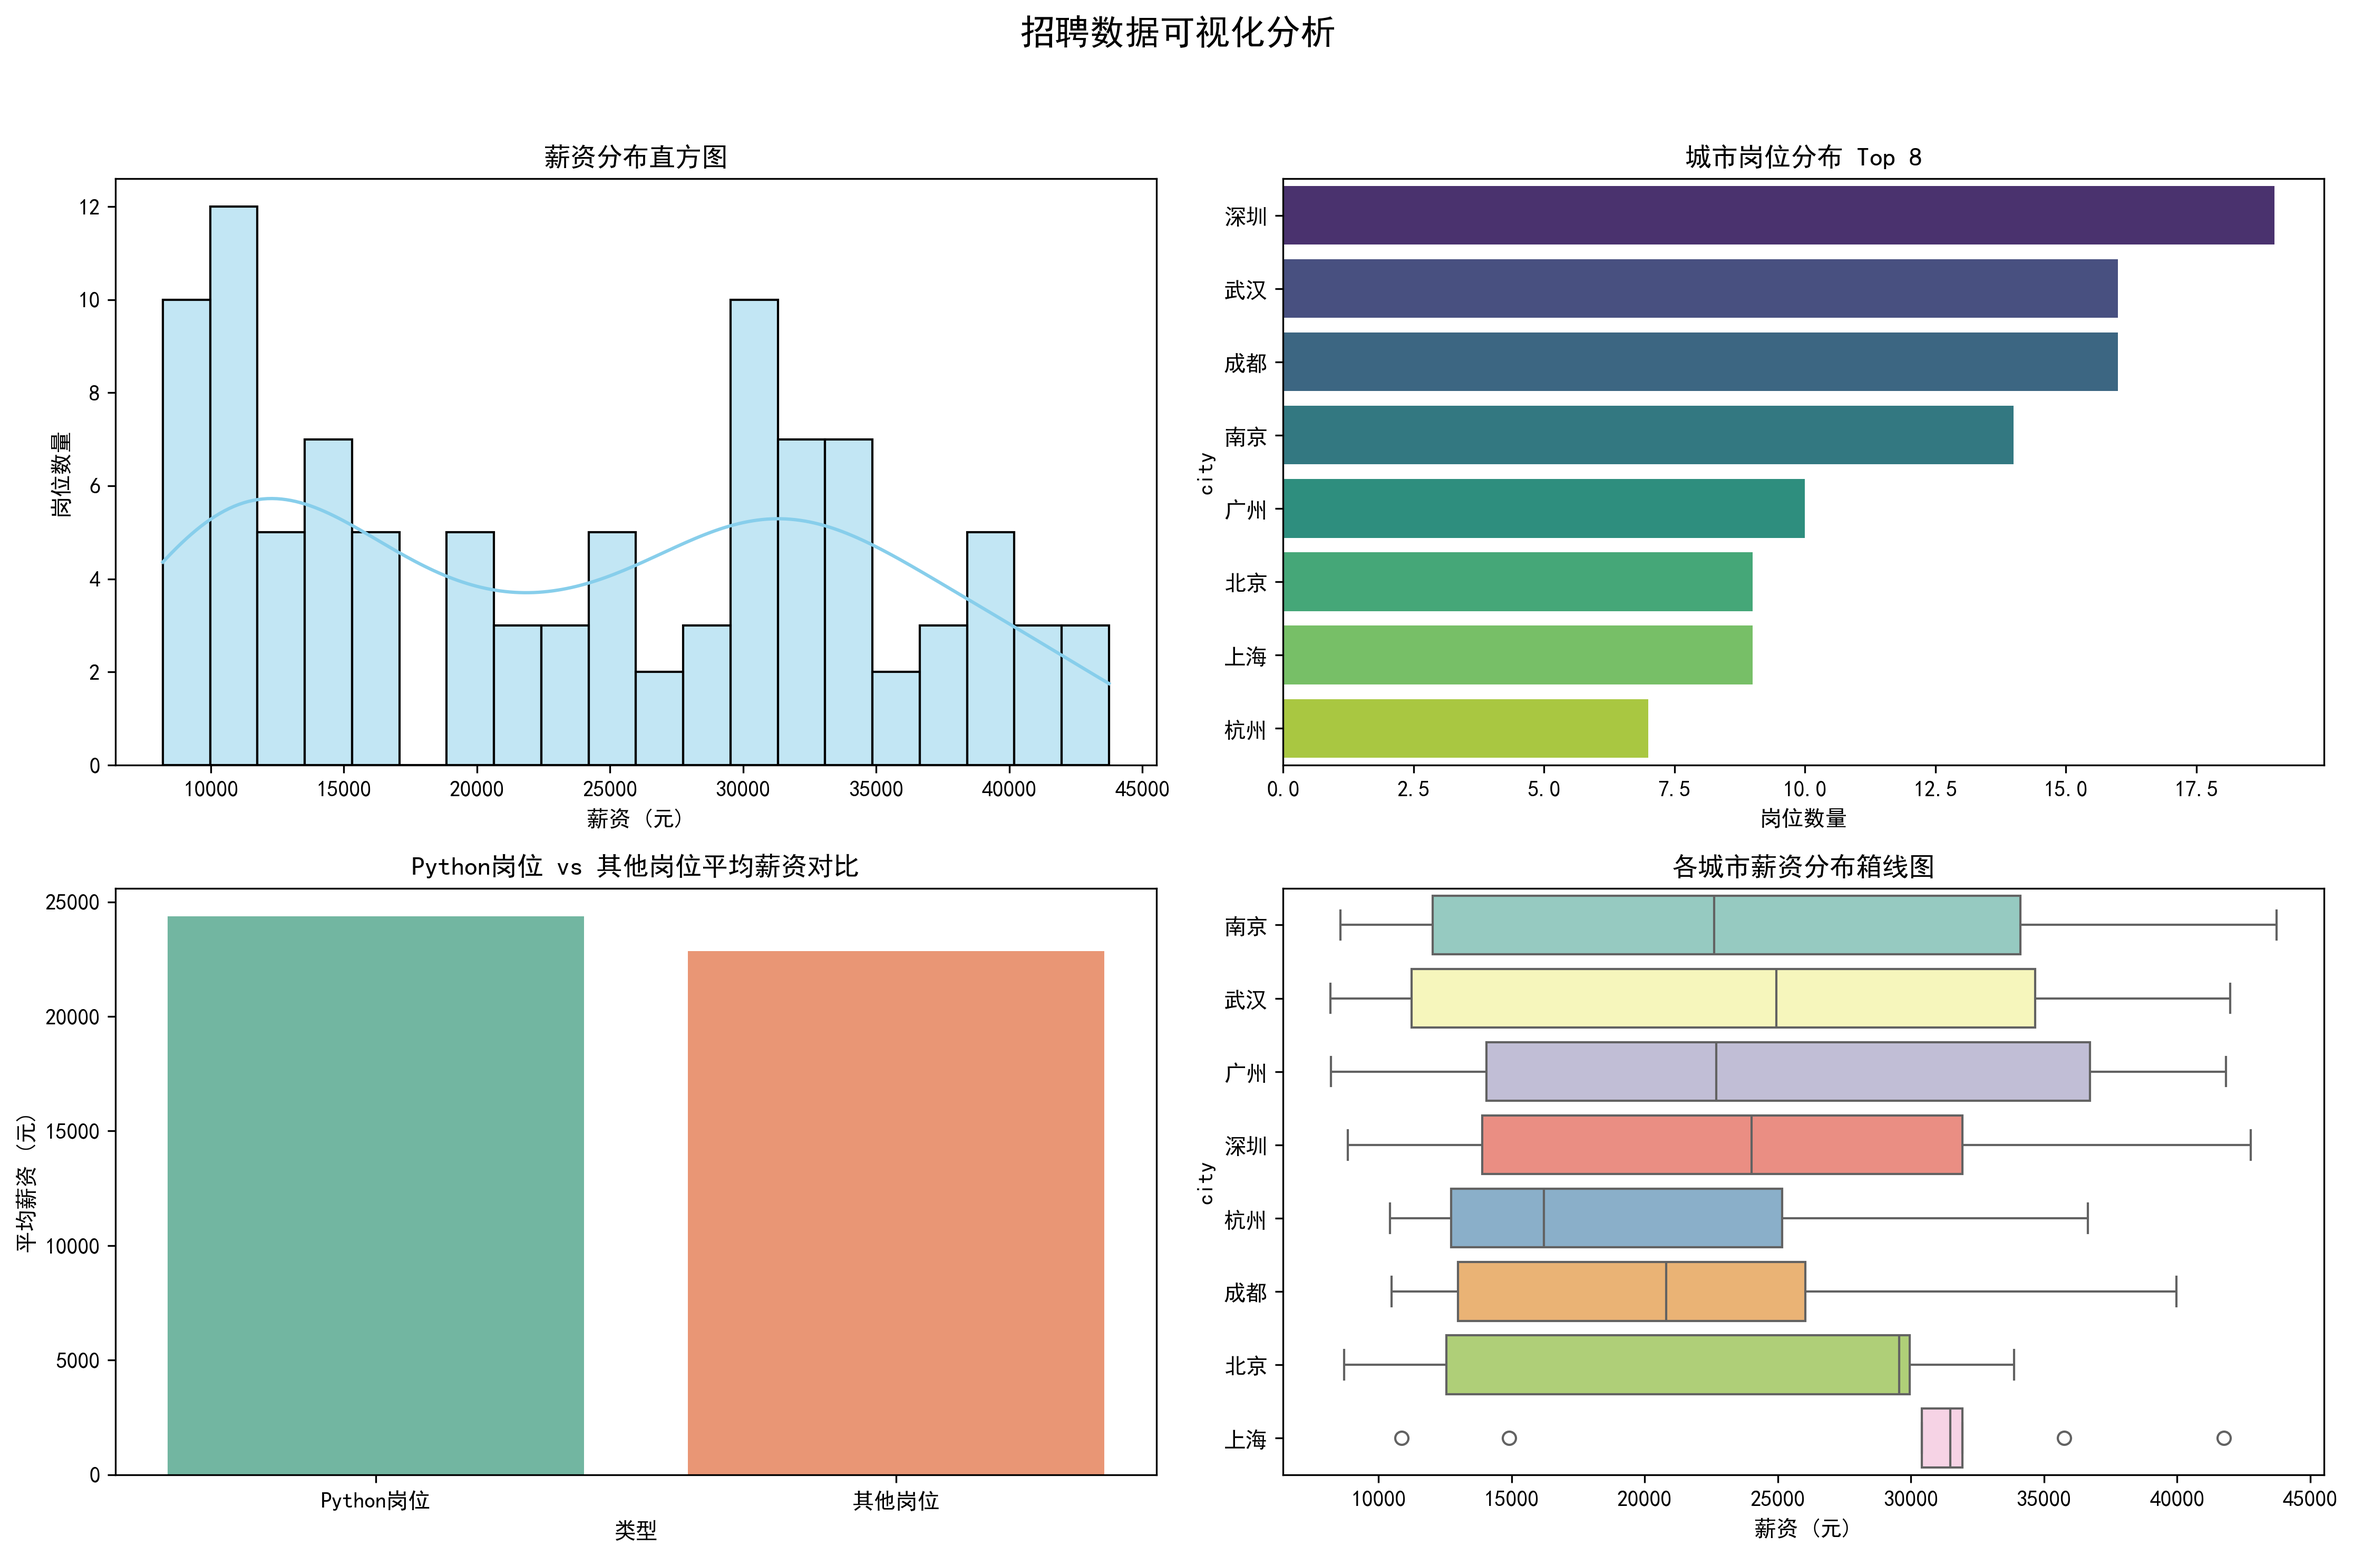
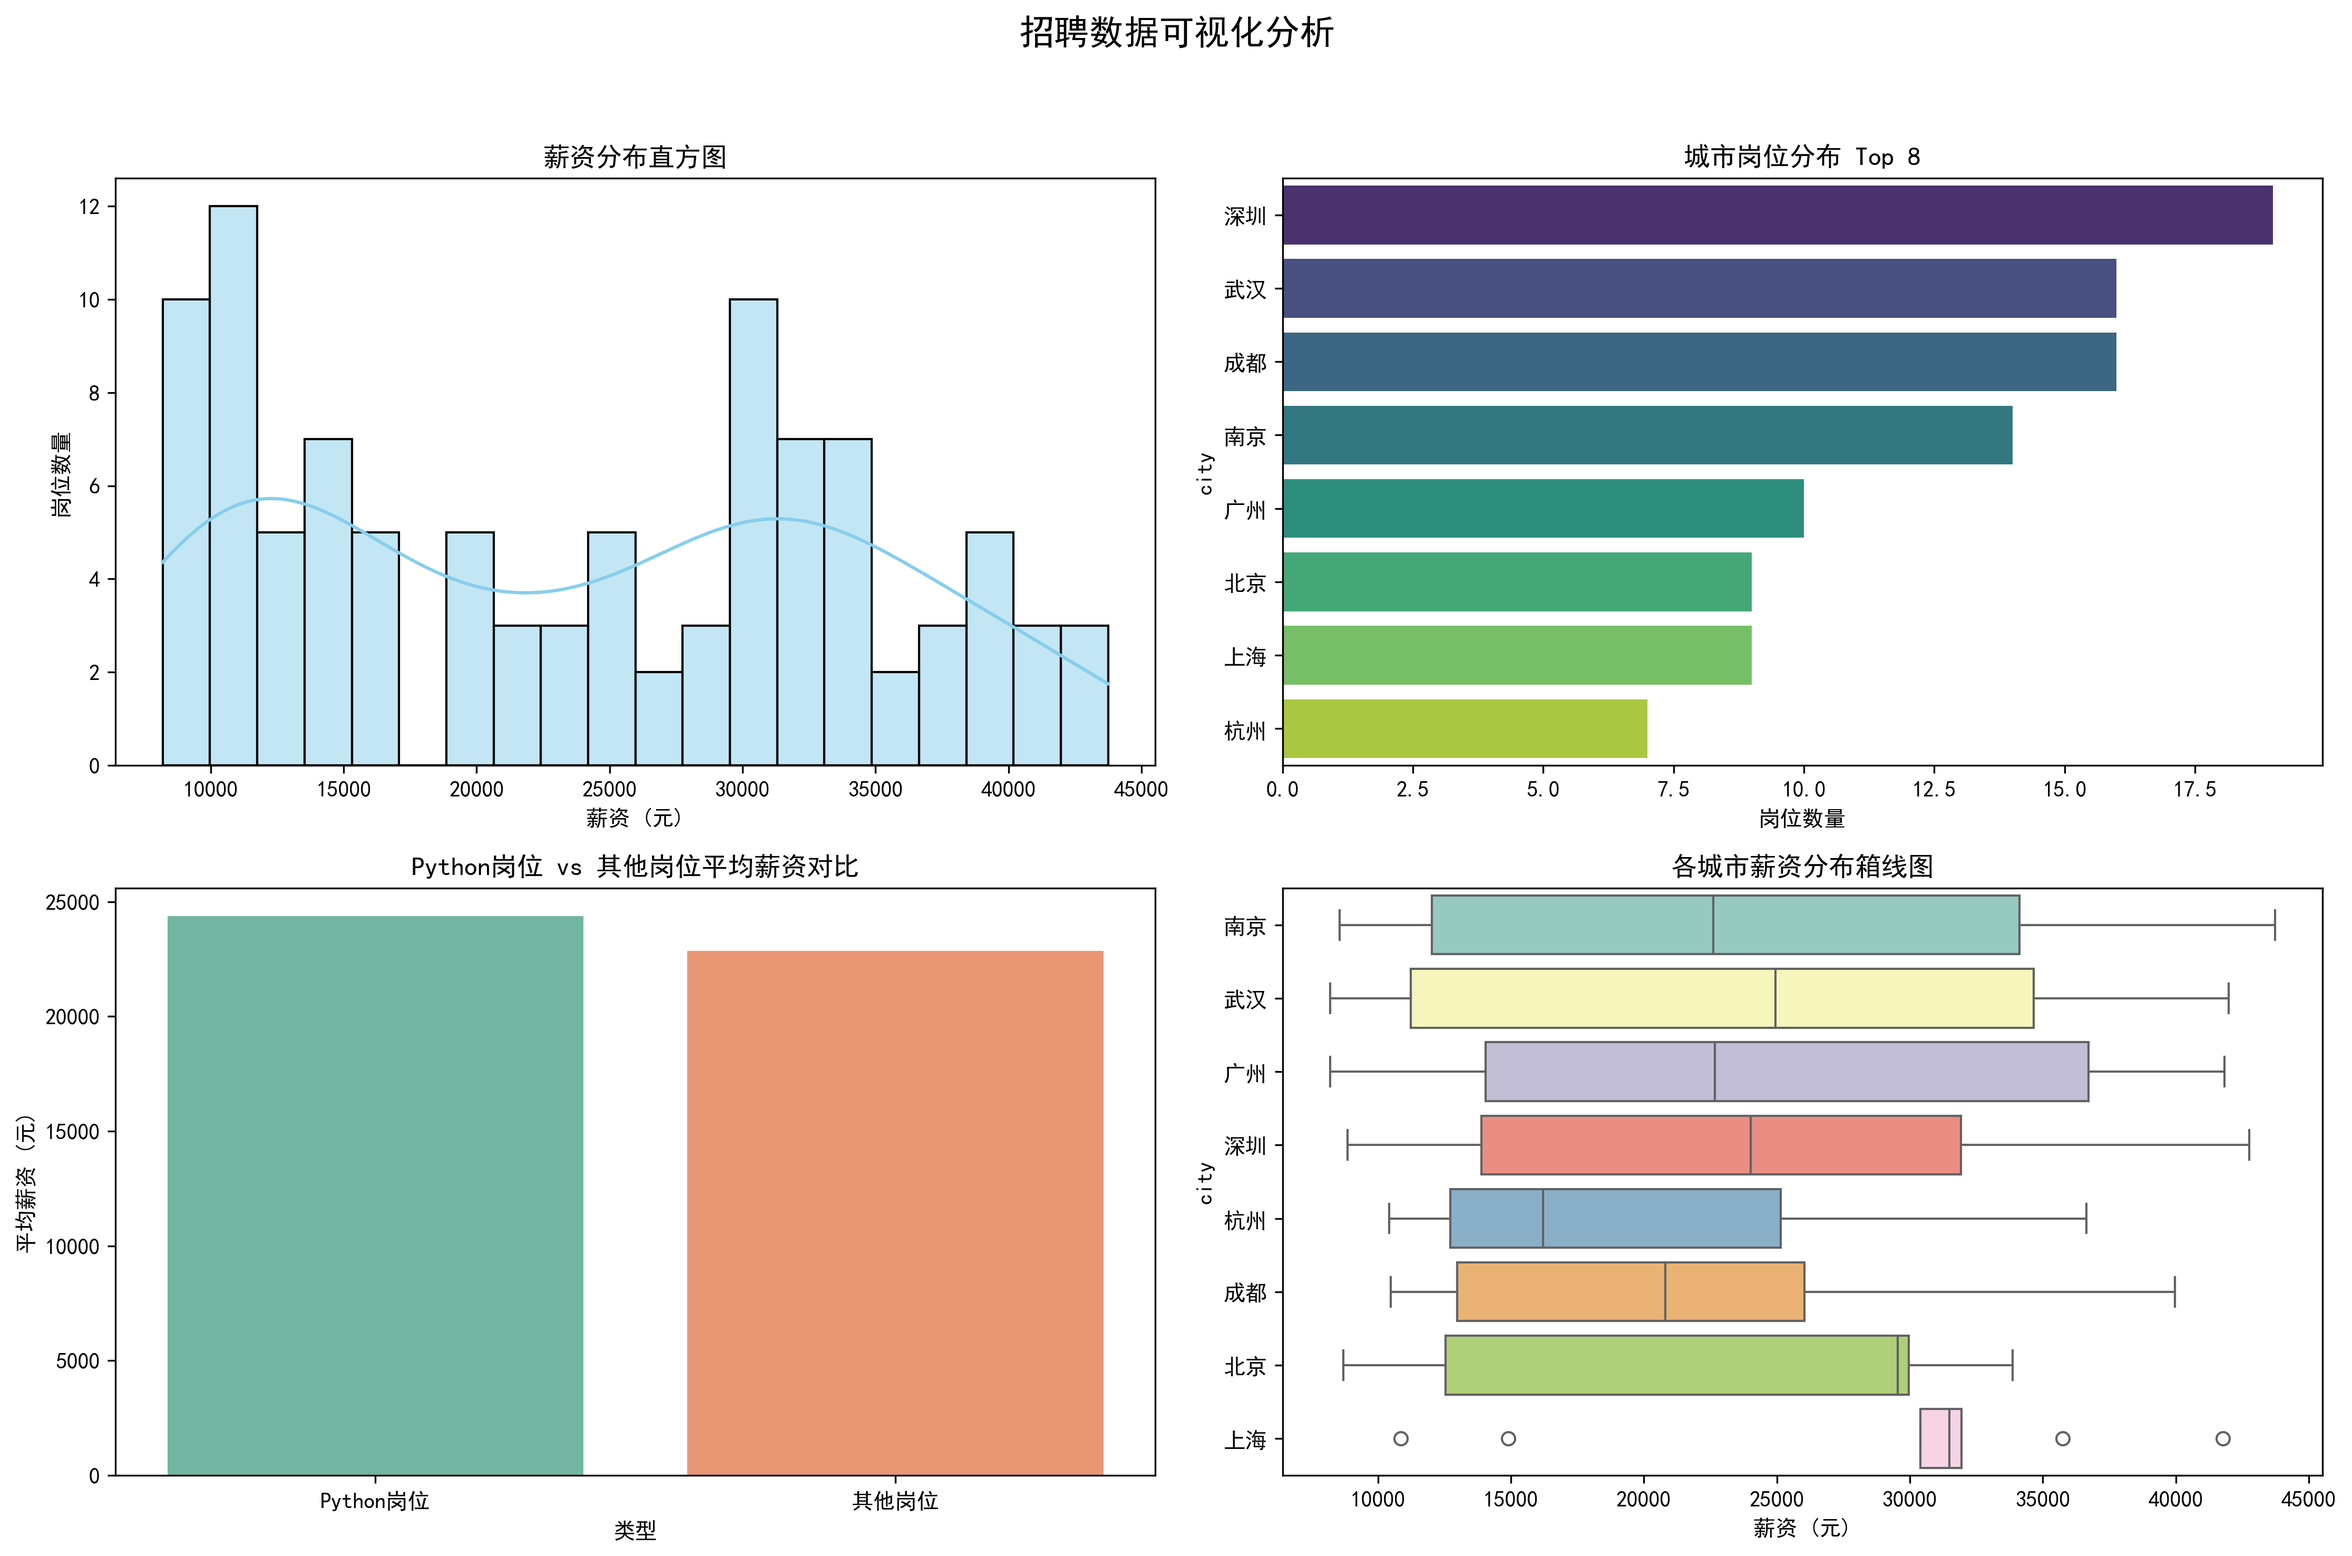
Fix: GBK encoding, seaborn deprecation, plt.show() blocking
- Add UTF-8 stdout reconfigure for Windows GBK terminals
- Fix seaborn palette→hue deprecation warnings
- Replace plt.show() with plt.close() to avoid blocking in headless environments

diff --git a/crawler.py b/crawler.py
@@ -1,12 +1,17 @@
 import requests
 import json
 import warnings
+import sys
 import pandas as pd
 import numpy as np
 import matplotlib.pyplot as plt
 import seaborn as sns
 from urllib3.exceptions import InsecureRequestWarning
 import os
+
+# Fix UnicodeEncodeError on Windows GBK terminals
+if sys.platform == 'win32':
+    sys.stdout.reconfigure(encoding='utf-8', errors='replace')
 
 plt.rcParams['font.sans-serif'] = ['SimHei', 'Microsoft YaHei', 'Arial Unicode MS']
 plt.rcParams['axes.unicode_minus'] = False
@@ -103,7 +108,7 @@ if response.status_code == 200:
 
     # 图2：城市分布 Top 8 柱状图
     city_top = df['city'].value_counts().head(8)
-    sns.barplot(x=city_top.values, y=city_top.index, palette='viridis', ax=axes[0, 1])
+    sns.barplot(x=city_top.values, y=city_top.index, hue=city_top.index, palette='viridis', legend=False, ax=axes[0, 1])
     axes[0, 1].set_title('城市岗位分布 Top 8')
     axes[0, 1].set_xlabel('岗位数量')
 
@@ -112,12 +117,12 @@ if response.status_code == 200:
         '类型': ['Python岗位', '其他岗位'],
         '平均薪资': [avg_salary_python, df[~df['title'].str.contains('Python')]['salary'].mean()]
     })
-    sns.barplot(x='类型', y='平均薪资', data=avg_by_type, palette='Set2', ax=axes[1, 0])
+    sns.barplot(x='类型', y='平均薪资', data=avg_by_type, hue='类型', palette='Set2', legend=False, ax=axes[1, 0])
     axes[1, 0].set_title('Python岗位 vs 其他岗位平均薪资对比')
     axes[1, 0].set_ylabel('平均薪资 (元)')
 
     # 图4：各城市薪资箱线图
-    sns.boxplot(x='salary', y='city', data=df, palette='Set3', ax=axes[1, 1])
+    sns.boxplot(x='salary', y='city', data=df, hue='city', palette='Set3', legend=False, ax=axes[1, 1])
     axes[1, 1].set_title('各城市薪资分布箱线图')
     axes[1, 1].set_xlabel('薪资 (元)')
 
@@ -128,11 +133,7 @@ if response.status_code == 200:
     plt.savefig(save_path, dpi=300, bbox_inches='tight')
     print(f"✅ 图表已保存为 {save_path}（高清300dpi）")
 
-    # 尝试显示图片（如果不弹出也没关系，图片已保存）
-    try:
-        plt.show()
-    except Exception:
-        print("⚠ 图片窗口未弹出，但图片已成功保存到文件夹")
+    plt.close()
 
     print("\n🎉 第二阶段全部完成！")
     print("   • analysis.xlsx 可以直接用 Excel 打开查看数据")
